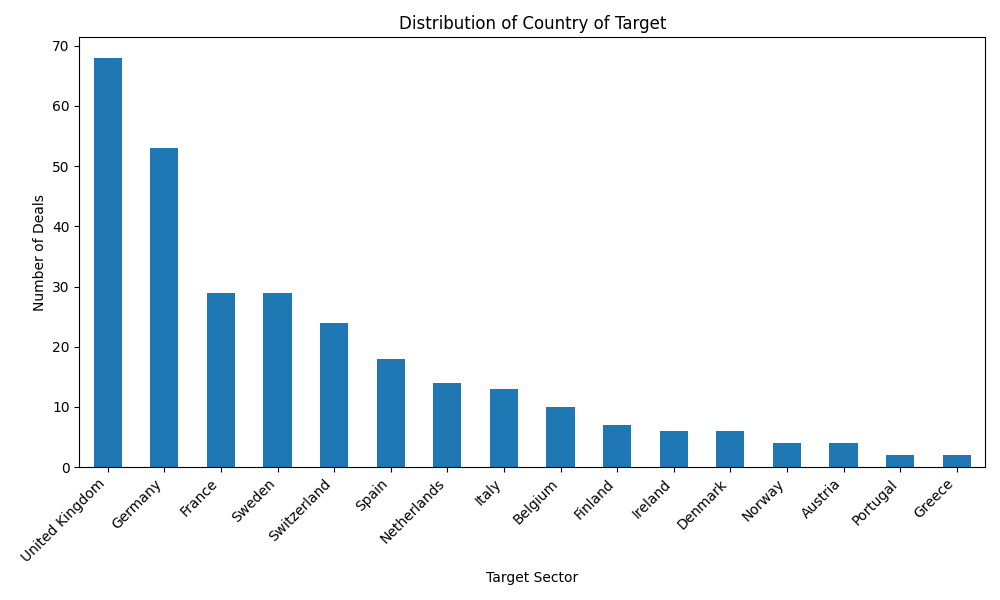
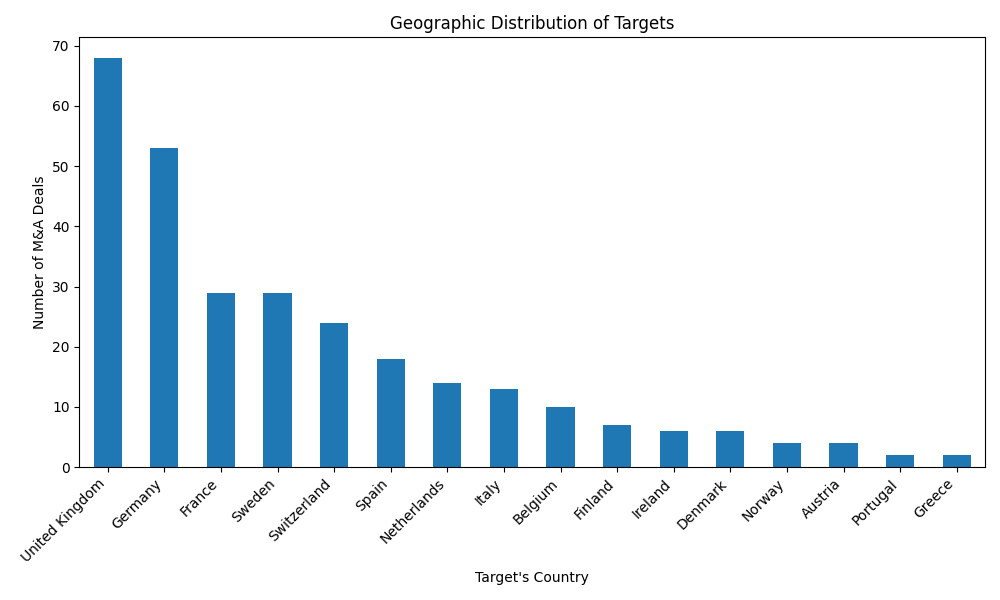
more changes graphs

Changed region(s): [[0.372, 0.03, 0.682, 0.06], [0.031, 0.3, 0.062, 0.54], [0.465, 0.93, 0.589, 0.99]]

diff --git a/Descriptive Statistics/v2_categorical_variables_statistics.py b/Descriptive Statistics/v2_categorical_variables_statistics.py
@@ -89,45 +89,51 @@ categorical_vars = [
 # Define custom plot labels (example)
 custom_plot_labels = {
     "Primary Sector [Target/Issuer]": {
-        "title": "Distribution of Target's Primary Sector",
-        "xlabel": "Target Sector",
-        "ylabel": "Number of Deals"
+        "title": "Sector Distribution of Target Firms",
+        "xlabel": "Primary Sector",
+        "ylabel": "Number of M&A Deals"
     },
     "Geographic Locations [Buyers/Investors]": {
-        "title": "Distribution of Country of Buyer",
-        "xlabel": "Buyer Sector",
-        "ylabel": "Number of Deals"
+        "title": "Geographic Distribution of Acquirers",
+        "xlabel": "Acquirer's Country",
+        "ylabel": "Number of M&A Deals"
     },
     "Geographic Locations [Target/Issuer]": {
-        "title": "Distribution of Country of Target",
-        "xlabel": "Target Sector",
-        "ylabel": "Number of Deals"
+        "title": "Geographic Distribution of Targets",
+        "xlabel": "Target's Country",
+        "ylabel": "Number of M&A Deals"
     },
     "Target Type": {
         "title": "Distribution by Target Type",
         "xlabel": "Target Type",
-        "ylabel": "Deal Count",
+        "ylabel": "Number of M&A Deals",
         "legend_labels": {"public": "Public", "private": "Private"}
     },
     "Diversification": {
-        "title": "Distribution of Conglomerate vs. Non-conglomerate",
+        "title": "Distribution of Diversifying vs. Focused M&As",
         "xlabel": "Deal Type",
-        "ylabel": "Number of Deals",
-        "legend_labels": {0: "Non-conglomerate", 1: "Conglomerate"}
+        "ylabel": "Number of M&A Deals",
+        "legend_labels": {0: "Focused", 1: "Diversifying"}
     },
     "CrossBorder": {
-        "title": "Distribution of Cross-Border vs. Domestic Deals",
+        "title": "Distribution of Domestic vs. Cross-Border M&As",
         "xlabel": "Deal Type",
-        "ylabel": "Number of Deals",
+        "ylabel": "Number of M&A Deals",
         "legend_labels": {0: "Domestic", 1: "Cross-Border"}
     },
     "Crisis": {
-        "title": "Distribution of Crisis vs. Non-Crisis",
-        "xlabel": "Deal Type",
-        "ylabel": "Number of Deals",
+        "title": "Distribution of M&As During and Outside Crisis Periods",
+        "xlabel": "Period",
+        "ylabel": "Number of M&A Deals",
         "legend_labels": {0: "Non-Crisis", 1: "Crisis"}
     },
-}    
+    "Consideration Offered": {
+        "title": "Distribution of Deal Payment Methods",
+        "xlabel": "Consideration Type",
+        "ylabel": "Number of M&A Deals"
+    }
+}
+
 
 # Create and run plot generator
 generator = PlotGenerator(df, categorical_vars, out_dir, custom_plot_labels)
